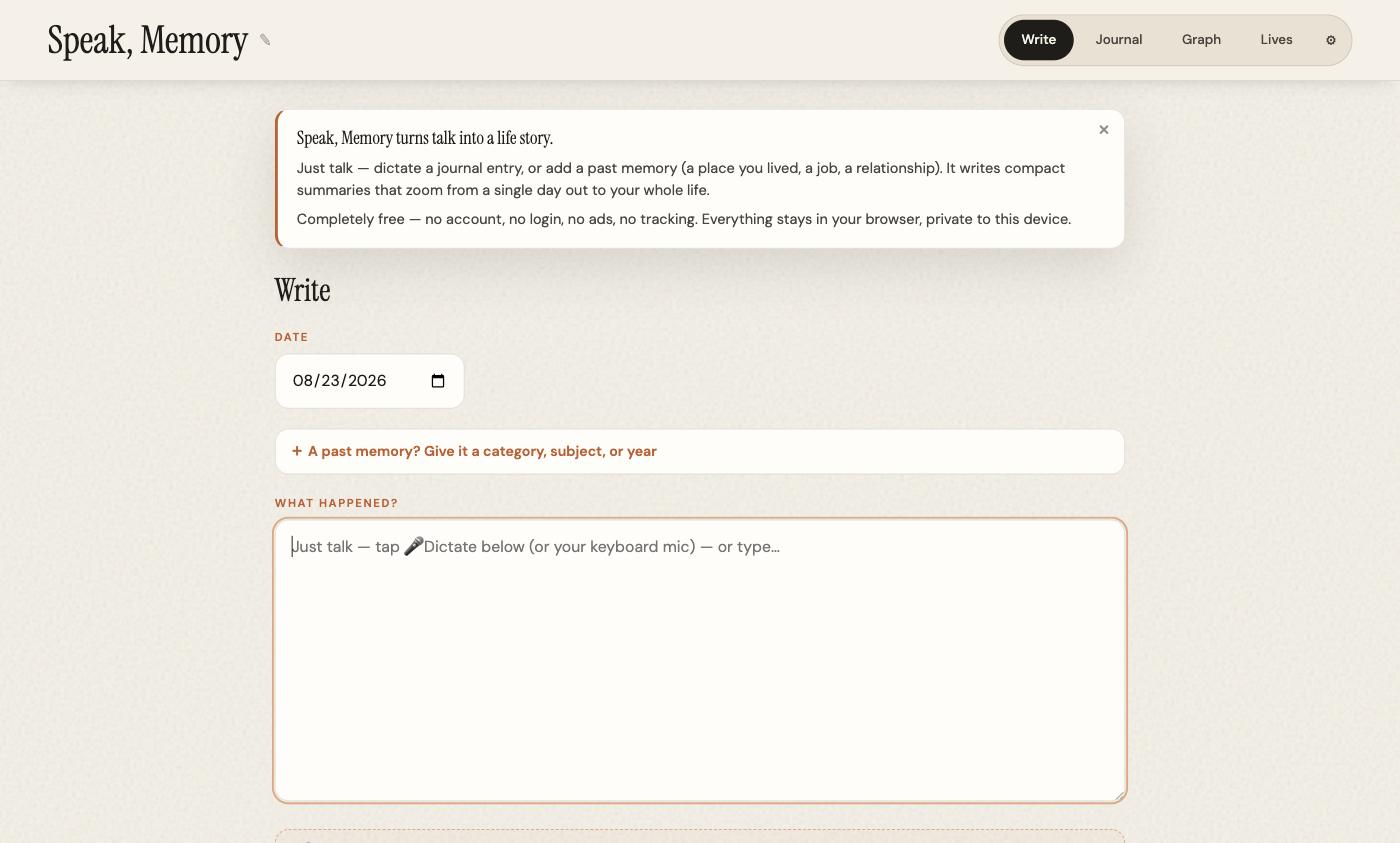
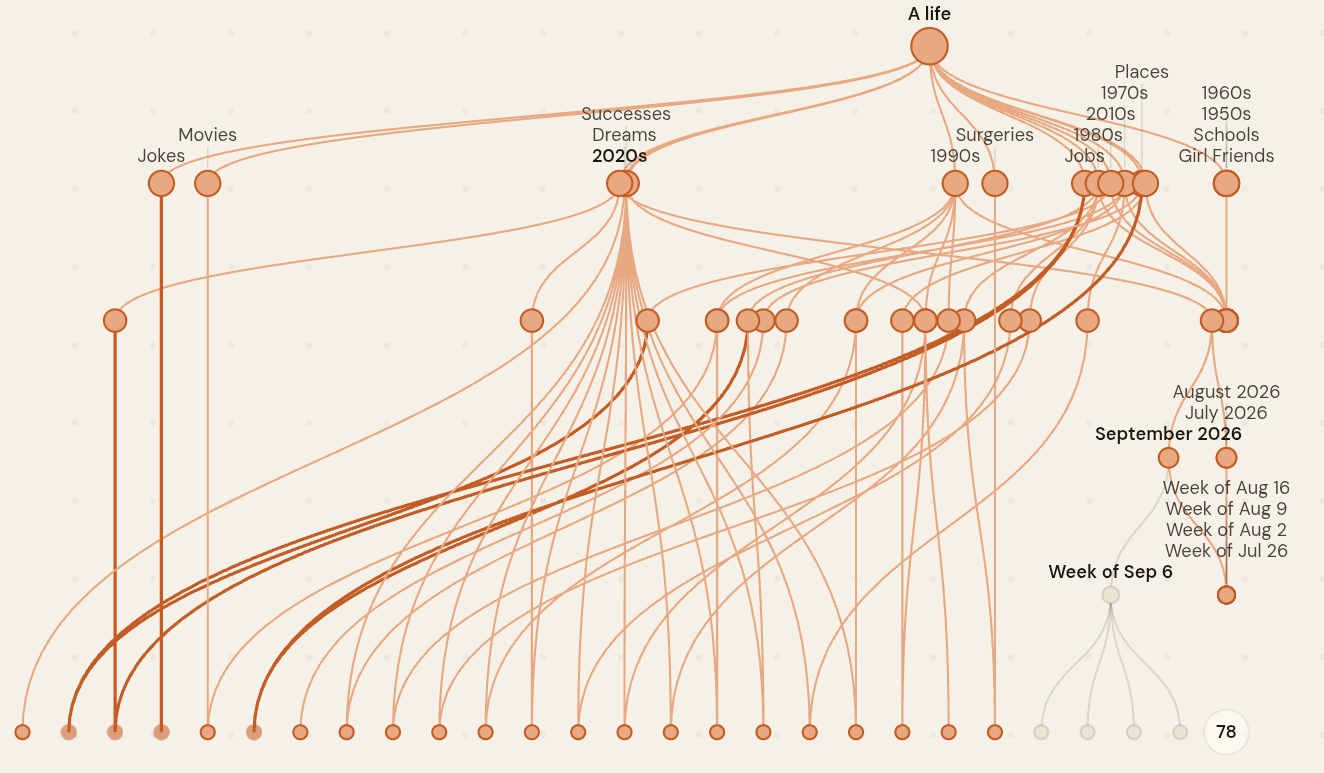
better images

diff --git a/src/data/homepage.js b/src/data/homepage.js
@@ -1,18 +1,18 @@
 const homepage = [
     {
-        "id": "1",
-        "year": "2026",
-        "name": "speak-memory",
-        "title": "Speak, Memory",
-        "subtitle": "turn spoken journal entries into a zoomable life calendar",
-        "blurb": "Turn talk into a life story. Dictate a journal entry or add a past memory, and it writes compact summaries that zoom from a single day out to your whole life.",
-        "accent": "#d97706",
-        "platform": "React/Nextjs, DeepSeek, Google Docs",
+        "id": "4",
+        "year": "2025",
+        "name": "constellations",
+        "title": "Constellations",
+        "subtitle": "browse the colaboration graph of anything",
+        "blurb": "Browse the collaboration graph of anything. Start from a movie, a person, or an event and wander the network of who worked with whom — built live from LLM queries.",
+        "accent": "#8b5cf6",
+        "platform": "React/Nextjs, Google AI Studio, Antigravity, Cursor, codex",
         "video": "",
-        "thumbnail": "/image/speak-memory.png",
-        "poster": "/image/speak-memory.png",
-        "url": "https://memory.johndimm.org/",
-        "github": "https://github.com/johndimm/speak-memory"
+        "thumbnail": "/image/constellations-thumb.png",
+        "poster": "/image/constellations-poster.png",
+        "url": "https://constellations.johndimm.org/",
+        "github": "https://github.com/johndimm/Constellations"
     },
     {
         "id": "2",
@@ -41,23 +41,24 @@ const homepage = [
         "video": "",
         "thumbnail": "/image/soundings.png",
         "poster": "/image/soundings.png",
+        "imagePosition": "left top",
         "url": "https://soundings.johndimm.org/api/auth/youtube",
         "github": "https://github.com/johndimm/soundings"
     },
     {
-        "id": "4",
-        "year": "2025",
-        "name": "constellations",
-        "title": "Constellations",
-        "subtitle": "browse the colaboration graph of anything",
-        "blurb": "Browse the collaboration graph of anything. Start from a movie, a person, or an event and wander the network of who worked with whom — built live from LLM queries.",
-        "accent": "#8b5cf6",
-        "platform": "React/Nextjs, Google AI Studio, Antigravity, Cursor, codex",
+        "id": "1",
+        "year": "2026",
+        "name": "speak-memory",
+        "title": "Speak, Memory",
+        "subtitle": "turn spoken journal entries into a zoomable life calendar",
+        "blurb": "Turn talk into a life story. Dictate a journal entry or add a past memory, and it writes compact summaries that zoom from a single day out to your whole life.",
+        "accent": "#d97706",
+        "platform": "React/Nextjs, DeepSeek, Google Docs",
         "video": "",
-        "thumbnail": "/image/constellations-thumb.png",
-        "poster": "/image/constellations-poster.png",
-        "url": "https://constellations.johndimm.org/",
-        "github": "https://github.com/johndimm/Constellations"
+        "thumbnail": "/image/speak-memory.png",
+        "poster": "/image/speak-memory.png",
+        "url": "https://memory.johndimm.org/",
+        "github": "https://github.com/johndimm/speak-memory"
     },
     {
         "id": "5",
@@ -159,7 +160,6 @@ const homepage = [
         "platform": "",
         "video": "",
         "thumbnail": "/image/resumes_thumb.png",
-        "imageBg": "#f4f4f5",
         "poster": "/image/resumes_thumb.png",
         "url": "",
         "github": ""

diff --git a/src/components/Card.js b/src/components/Card.js
@@ -23,6 +23,7 @@ const Card = ({ item }) => {
                         className={`${styles.appCardImage} ${item.imageBg ? styles.appCardImageContain : ''}`}
                         src={item.poster || item.thumbnail}
                         alt={item.title}
+                        style={item.imagePosition ? { objectPosition: item.imagePosition } : undefined}
                     />
                 </div>
 
